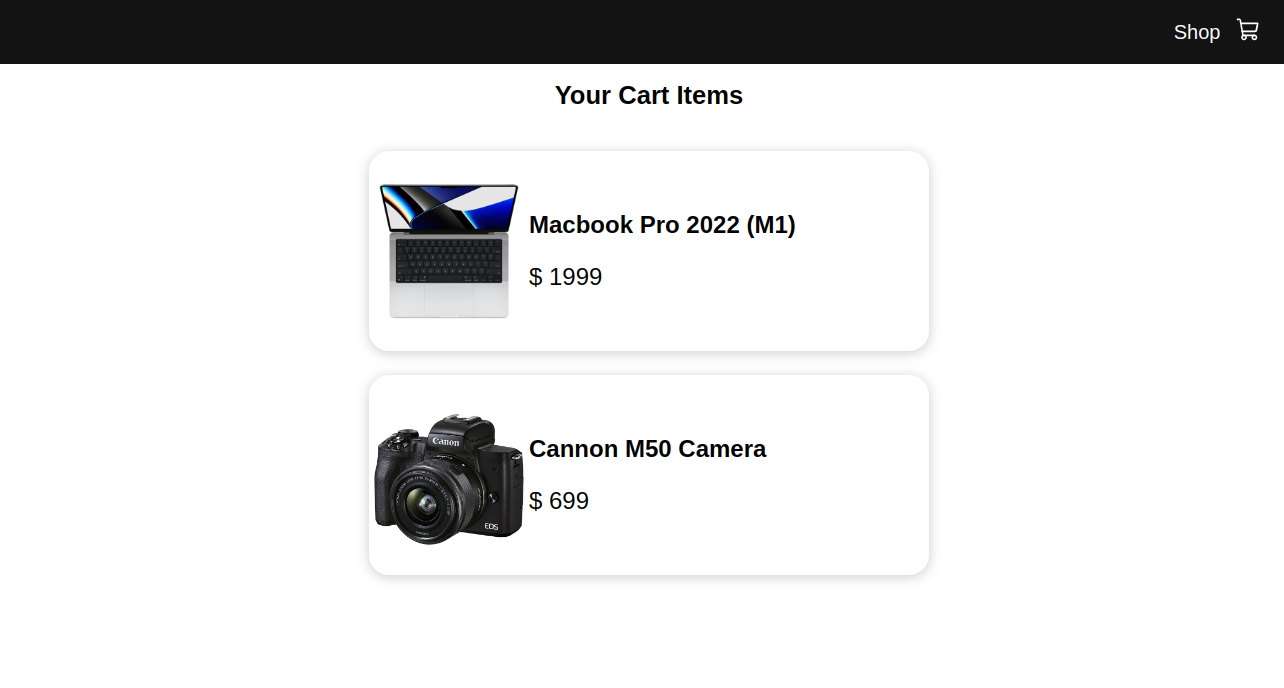
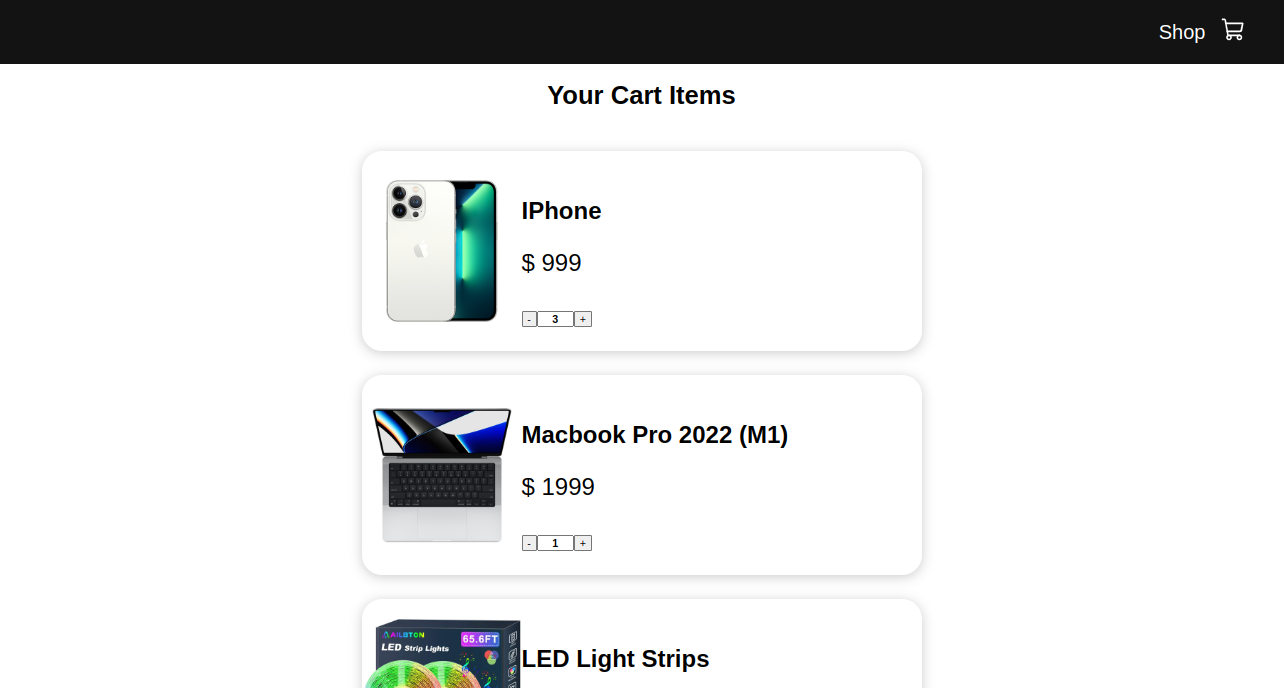
Updating itemCount on cart, 50:44 of the video https://www.youtube.com/watch?v=tEMrD9t85v4

diff --git a/src/pages/cart/CartItem.jsx b/src/pages/cart/CartItem.jsx
@@ -1,7 +1,9 @@
-import React, { useContext } from 'react'; 
+import React, { useContext } from 'react'
+import { ShopContext } from "../../context/ShopContext"
 
 function Product(props) {
 	const { id, productName, price, productImage } = props.data
+	const { cartItems, addToCart, removeFromCart } = useContext(ShopContext)
 	
 	return (
 		<div className="cartItem">
@@ -9,6 +11,13 @@ function Product(props) {
 			<div className="description"	>
 				<p><b>{productName}</b></p>
 				<p>$ {price}</p>
+
+				<div className="countHandler">
+					<button onClick={ () => removeFromCart(id) }> - </button>
+					<input value={cartItems[id]} onChange={ (e) => } />
+					<button onClick={ ()=> addToCart(id) }> + </button>
+				</div>
+
 			</div>
 		</div>
 	)
